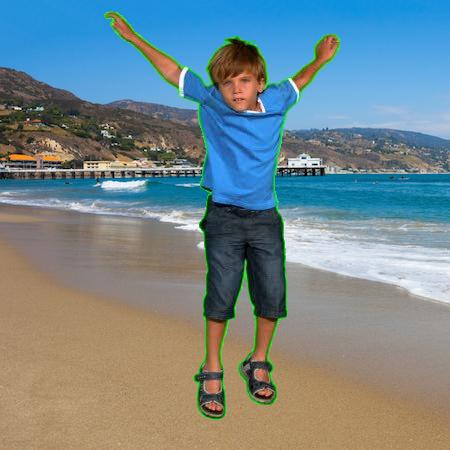
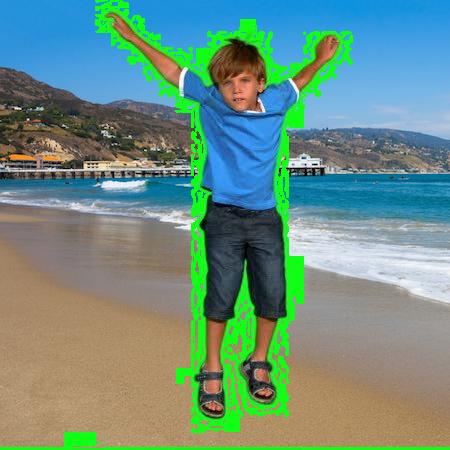
image

Changed region(s): [[0.0, 0.0, 1.0, 1.0]]

diff --git a/colour_helper.py b/colour_helper.py
@@ -17,5 +17,5 @@ def pixel_to_string(pixel: tuple) -> str:
     """
     r, g, b = pixel
 
-    if g > 213 and r < 61 and b < 75:
+    if g > 250 and r < 16 and b < 22:
         return "green"
